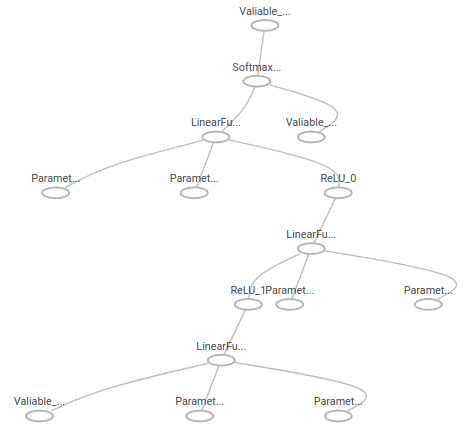
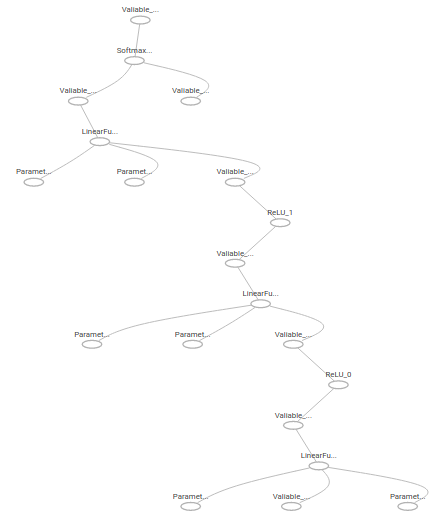
revert deleting intermidiate variable

diff --git a/tensorboard/graph.py b/tensorboard/graph.py
@@ -33,42 +33,30 @@ def add_id(obj):
     if not id(obj) in _type2ids[type(obj)]:
         _type2ids[type(obj)].append(id(obj))
 
-def is_intermidiate_variable(obj):
-    if isinstance(obj, chainer.variable.VariableNode) and \
-      hasattr(obj, 'creator') and obj.creator is not None:
-        return True
-    return False
-
-def make_name(obj, max_rank):
-    target = obj
-    if obj.rank < max_rank and is_intermidiate_variable(obj):
-        target = obj.creator
-    if hasattr(target, '_variable') and target._variable is not None:
-        if id(target._variable()) in _id2name:
-            return 'Parameter_' + _id2name[id(target._variable())]
-    add_id(target)
-    if isinstance(target, chainer.variable.VariableNode):
-        return 'Valiable_' + str(_type2ids[type(target)].index(id(target))) + ' ' + target.label
-    return target.label + '_' + str(_type2ids[type(target)].index(id(target)))
+def make_name(obj):
+    if hasattr(obj, '_variable') and obj._variable is not None:
+        if id(obj._variable()) in _id2name:
+            return 'Parameter_' + _id2name[id(obj._variable())]
+    add_id(obj)
+    if isinstance(obj, chainer.variable.VariableNode):
+        return 'Valiable_' + str(_type2ids[type(obj)].index(id(obj))) + ' ' + obj.label
+    return obj.label + '_' + str(_type2ids[type(obj)].index(id(obj)))
 
 def make_list_of_nodes(fn):
     list_of_nodes = []
     g = c.build_computational_graph([fn])
-    max_rank = max([n.rank for n in g.nodes])
     for n in g.nodes:
-        if n.rank < max_rank and is_intermidiate_variable(n):
-            continue
         inputs = []
         for e1, e2 in g.edges:
             if e2 == n:
-                inputs.append(make_name(e1, max_rank))
+                inputs.append(make_name(e1))
         attr_shape = []
         if hasattr(n, 'shape'):
             attr_shape = list(n.shape)
         dtype = dt.DT_INVALID
         if hasattr(n, 'dtype'):
             dtype = convert_dtype(n.dtype)
-        list_of_nodes.append({'name': make_name(n, max_rank), 'op': n.label,
+        list_of_nodes.append({'name': make_name(n), 'op': n.label,
                               'inputs': inputs,
                               'attr.shape': attr_shape,
                               'attr.dtype': dtype})

diff --git a/setup.py b/setup.py
@@ -14,7 +14,7 @@ test_requirements = [
 
 setup(
     name='tensorboard-chainer',
-    version='0.1.1',
+    version='0.1.2',
     description='Log TensorBoard events with chainer',
     author='nake nat',
     author_email='nakanat.stock@gmail.com',
